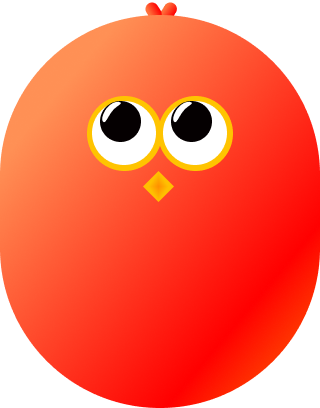
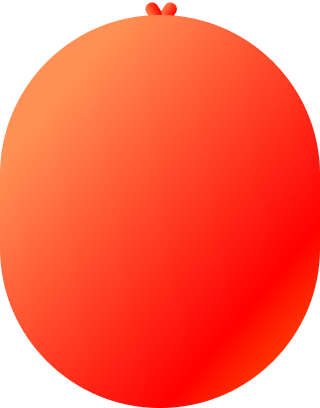
eyes and nose added

Changed region(s): [[0.25, 0.2353, 0.75, 0.5]]

diff --git a/src/main.js b/src/main.js
@@ -59,6 +59,32 @@ const body = Bodies.rectangle(centerX, baseY, 320, 400, {
   inertia: Infinity // prevent rotation
 });
 
+// Eyes
+const nose = Bodies.rectangle(centerX, baseY, 31, 31, {
+  // background: "#ff030a",
+  render: {
+    sprite: {
+      texture: "./figure/nose.png",
+      xScale: 1,
+      yScale: 1
+    }
+  },
+  inertia: Infinity // prevent rotation
+});
+
+// Eyes
+const eye = Bodies.rectangle(centerX, baseY, 148, 77, {
+  // background: "#ff030a",
+  render: {
+    sprite: {
+      texture: "./figure/eyeNormal.png",
+      xScale: 1,
+      yScale: 1
+    }
+  },
+  inertia: Infinity // prevent rotation
+});
+
 // Tail
 const tail = Bodies.rectangle(centerX - 150, baseY + 30, 50, 50, {
   // background: "#0a3cfd",
@@ -166,7 +192,7 @@ const fingerFour = Bodies.rectangle(centerX - 40, baseY + 150, 13, 35, {
   inertia: Infinity
 });
 
-World.add(world, [tail, wingLeft, wingRight, fingerOne, fingerTwo, fingerThree, fingerFour, legRight, legLeft, body]);
+World.add(world, [tail, wingLeft, wingRight, fingerOne, fingerTwo, fingerThree, fingerFour, legRight, legLeft, body, eye, nose]);
 
 // Joints
 const joints = [
@@ -176,6 +202,26 @@ const joints = [
     bodyB: wingLeft,
     pointB: { x: 0, y: -35 },
     stiffness: 0,
+    damping: 0,
+    length: 0,
+    render: { visible: false }
+  }),
+  Constraint.create({
+    bodyA: body,
+    pointA: { x: 0, y: 0 },
+    bodyB: eye,
+    pointB: { x: 0, y: 70 },
+    stiffness: 1,
+    damping: 0,
+    length: 0,
+    render: { visible: false }
+  }),
+  Constraint.create({
+    bodyA: body,
+    pointA: { x: 0, y: 0 },
+    bodyB: nose,
+    pointB: { x: 0, y: 20 },
+    stiffness: 1,
     damping: 0,
     length: 0,
     render: { visible: false }
